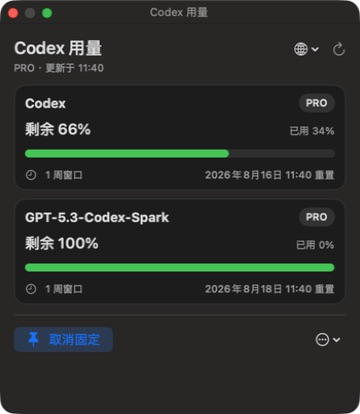
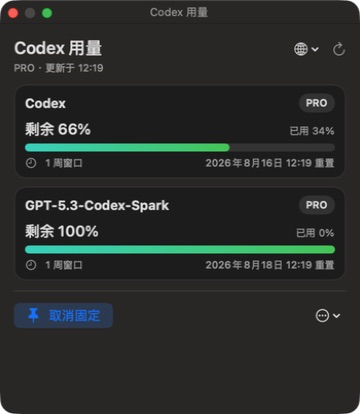
添加随剩余用量变化的渐变进度条

Changed region(s): [[0.0306, 0.4638, 0.9472, 0.8696], [0.0611, 0.3188, 0.9472, 0.4348], [0.2139, 0.1449, 0.3056, 0.1739]]

diff --git a/Sources/CodexUsageMonitor/Views.swift b/Sources/CodexUsageMonitor/Views.swift
@@ -265,8 +265,11 @@ struct UsageWindowView: View {
                     .foregroundStyle(.secondary)
             }
 
-            ProgressView(value: window.remainingPercent, total: 100)
-                .tint(progressColor)
+            UsageGradientProgressBar(
+                value: window.remainingPercent,
+                gradient: progressGradient,
+                accessibilityLabel: l10n.remaining
+            )
 
             HStack {
                 if let duration = window.durationMinutes {
@@ -282,14 +285,47 @@ struct UsageWindowView: View {
         }
     }
 
-    private var progressColor: Color {
-        switch window.remainingPercent {
-        case ..<15: return .red
-        case ..<35: return .orange
-        default: return .green
+    private var progressGradient: LinearGradient {
+        let colors: [Color]
+        switch window.level {
+        case .healthy:
+            colors = [.mint, .green]
+        case .moderate:
+            colors = [.green, .yellow]
+        case .low:
+            colors = [.yellow, .orange]
+        case .critical:
+            colors = [.orange, .red]
         }
+        return LinearGradient(colors: colors, startPoint: .leading, endPoint: .trailing)
     }
 
+}
+
+private struct UsageGradientProgressBar: View {
+    let value: Double
+    let gradient: LinearGradient
+    let accessibilityLabel: String
+
+    private var fraction: Double {
+        min(1, max(0, value / 100))
+    }
+
+    var body: some View {
+        GeometryReader { proxy in
+            ZStack(alignment: .leading) {
+                Capsule()
+                    .fill(Color.primary.opacity(0.12))
+                Capsule()
+                    .fill(gradient)
+                    .frame(width: proxy.size.width * fraction)
+            }
+        }
+        .frame(height: 8)
+        .accessibilityElement(children: .ignore)
+        .accessibilityLabel(accessibilityLabel)
+        .accessibilityValue("\(value.formatted(.number.precision(.fractionLength(0...1))))%")
+    }
 }
 
 @MainActor

diff --git a/Tests/CodexUsageMonitorTests/CodexAppServerClientTests.swift b/Tests/CodexUsageMonitorTests/CodexAppServerClientTests.swift
@@ -81,6 +81,27 @@ import Testing
     #expect(AppLanguage.detect(arguments: ["app", "--language=en"], environment: [:]) == .english)
 }
 
+@Test func mapsRemainingUsageToGradientLevels() {
+    func window(remaining: Double) -> UsageWindow {
+        UsageWindow(
+            id: "test-\(remaining)",
+            label: "Test",
+            usedPercent: 100 - remaining,
+            durationMinutes: nil,
+            resetsAt: nil
+        )
+    }
+
+    #expect(window(remaining: 100).level == .healthy)
+    #expect(window(remaining: 65).level == .healthy)
+    #expect(window(remaining: 64.9).level == .moderate)
+    #expect(window(remaining: 35).level == .moderate)
+    #expect(window(remaining: 34.9).level == .low)
+    #expect(window(remaining: 15).level == .low)
+    #expect(window(remaining: 14.9).level == .critical)
+    #expect(window(remaining: 0).level == .critical)
+}
+
 @MainActor
 @Test func demoModeUsesSanitizedSnapshot() {
     let store = UsageStore(language: .english, arguments: ["app", "--demo"])

diff --git a/Sources/CodexUsageMonitor/Models.swift b/Sources/CodexUsageMonitor/Models.swift
@@ -1,5 +1,12 @@
 import Foundation
 
+enum UsageLevel: Equatable, Sendable {
+    case healthy
+    case moderate
+    case low
+    case critical
+}
+
 struct UsageWindow: Identifiable, Equatable, Sendable {
     let id: String
     let label: String
@@ -9,6 +16,15 @@ struct UsageWindow: Identifiable, Equatable, Sendable {
 
     var remainingPercent: Double {
         min(100, max(0, 100 - usedPercent))
+    }
+
+    var level: UsageLevel {
+        switch remainingPercent {
+        case ..<15: return .critical
+        case ..<35: return .low
+        case ..<65: return .moderate
+        default: return .healthy
+        }
     }
 }
 

diff --git a/README.md b/README.md
@@ -21,6 +21,7 @@ A small native macOS menu bar app that reads your remaining Codex usage from the
 - Includes Quit, in-app Uninstall, and a standalone uninstall script.
 - Does not read or store your ChatGPT token; it reuses the local Codex sign-in state.
 - Handles empty quota responses, reached-limit states, and workspace credit balances without assuming plan-specific allowance values.
+- Uses dynamic progress gradients that shift from mint/green to yellow/orange and finally red as remaining usage is depleted.
 
 ## Requirements
 

diff --git a/README.zh-CN.md b/README.zh-CN.md
@@ -21,6 +21,7 @@
 - 支持退出、应用内卸载和独立卸载脚本。
 - 不读取或保存 ChatGPT Token，复用本机 Codex 登录状态。
 - 兼容空限额、已达到上限和工作区 Credits，不猜测不同计划的额度数值。
+- 进度条根据剩余用量动态渐变：充足时为薄荷绿/绿色，中低时转为黄色/橙色，接近耗尽时变为红色。
 
 ## 系统要求
 
